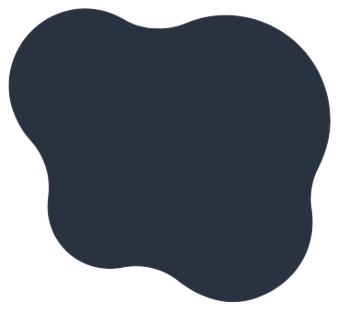
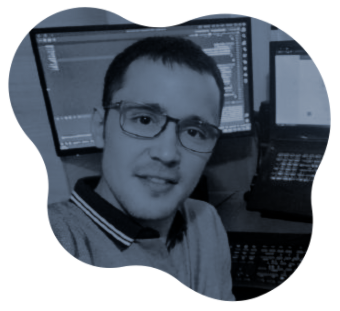
updated blog authors and reorganize docs

diff --git a/blog/examples/2019-05-28-first-blog-post.md b/blog/examples/2019-05-28-first-blog-post.md
@@ -1,11 +1,7 @@
 ---
 slug: first-blog-post
 title: First Blog Post
-authors:
-  name: Gao Wei
-  title: Docusaurus Core Team
-  url: https://github.com/wgao19
-  image_url: https://github.com/wgao19.png
+authors: rubenfgr
 tags: [hola, docusaurus]
 ---
 

diff --git a/blog/examples/2021-08-26-welcome/index.md b/blog/examples/2021-08-26-welcome/index.md
@@ -1,7 +1,7 @@
 ---
 slug: welcome
 title: Welcome
-authors: [slorber, yangshun]
+authors: [rubenfgr]
 tags: [facebook, hello, docusaurus]
 ---
 

diff --git a/blog/examples/2019-05-29-long-blog-post.md b/blog/examples/2019-05-29-long-blog-post.md
@@ -1,7 +1,7 @@
 ---
 slug: long-blog-post
 title: Long Blog Post
-authors: endi
+authors: rubenfgr
 tags: [hello, docusaurus]
 ---
 
